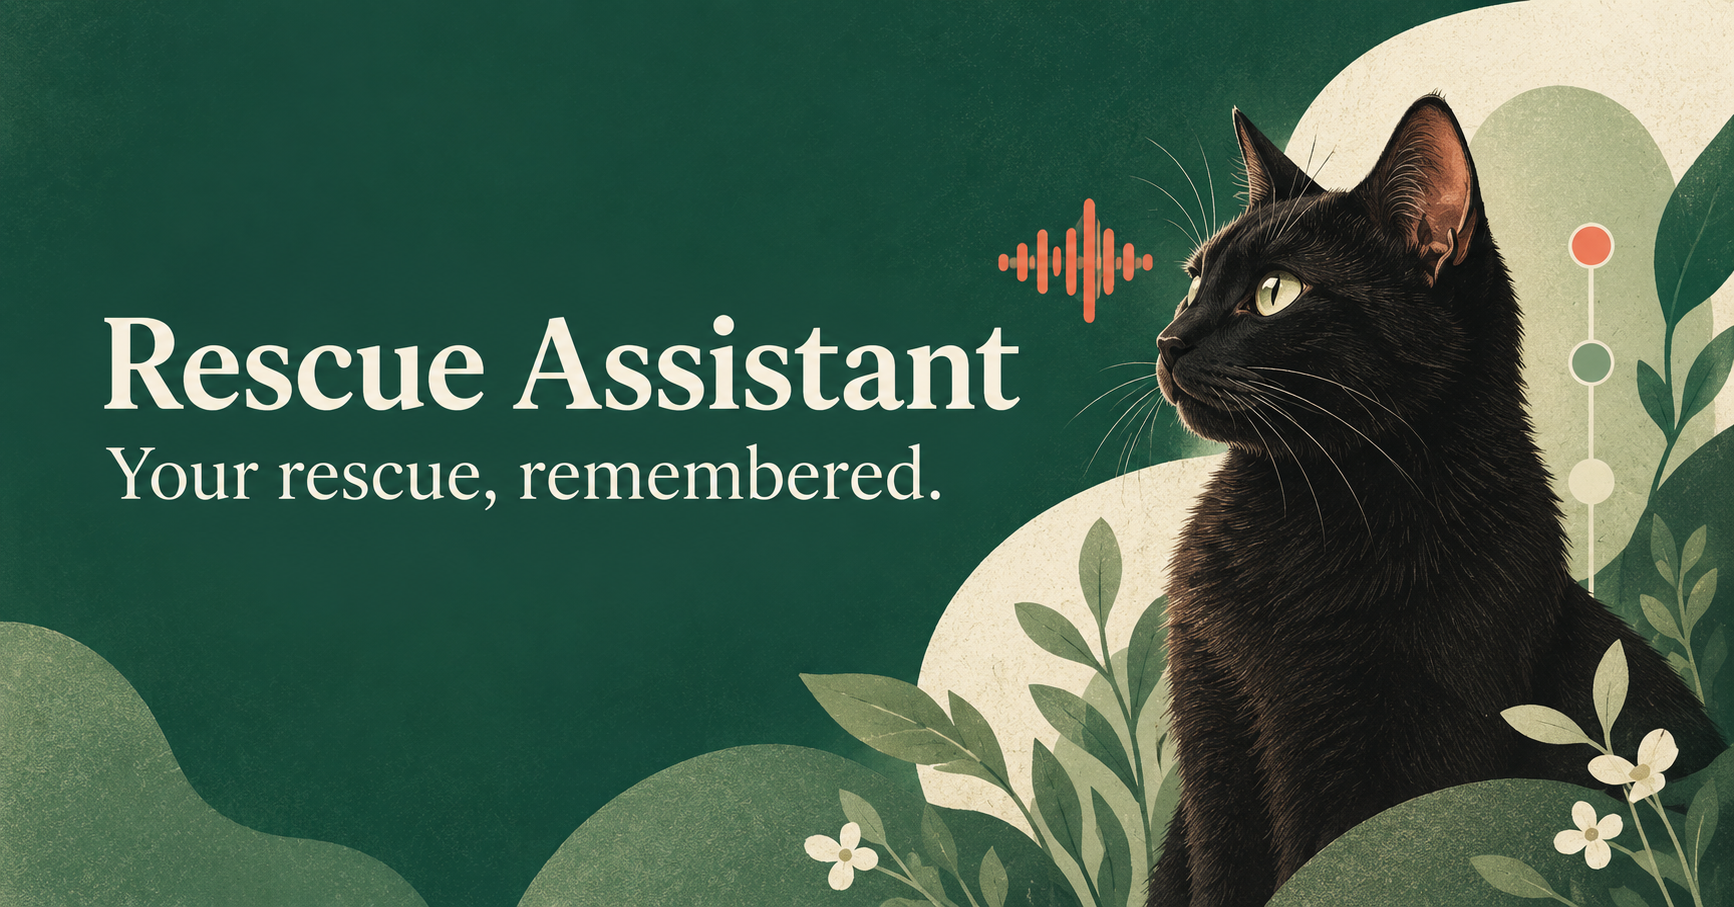
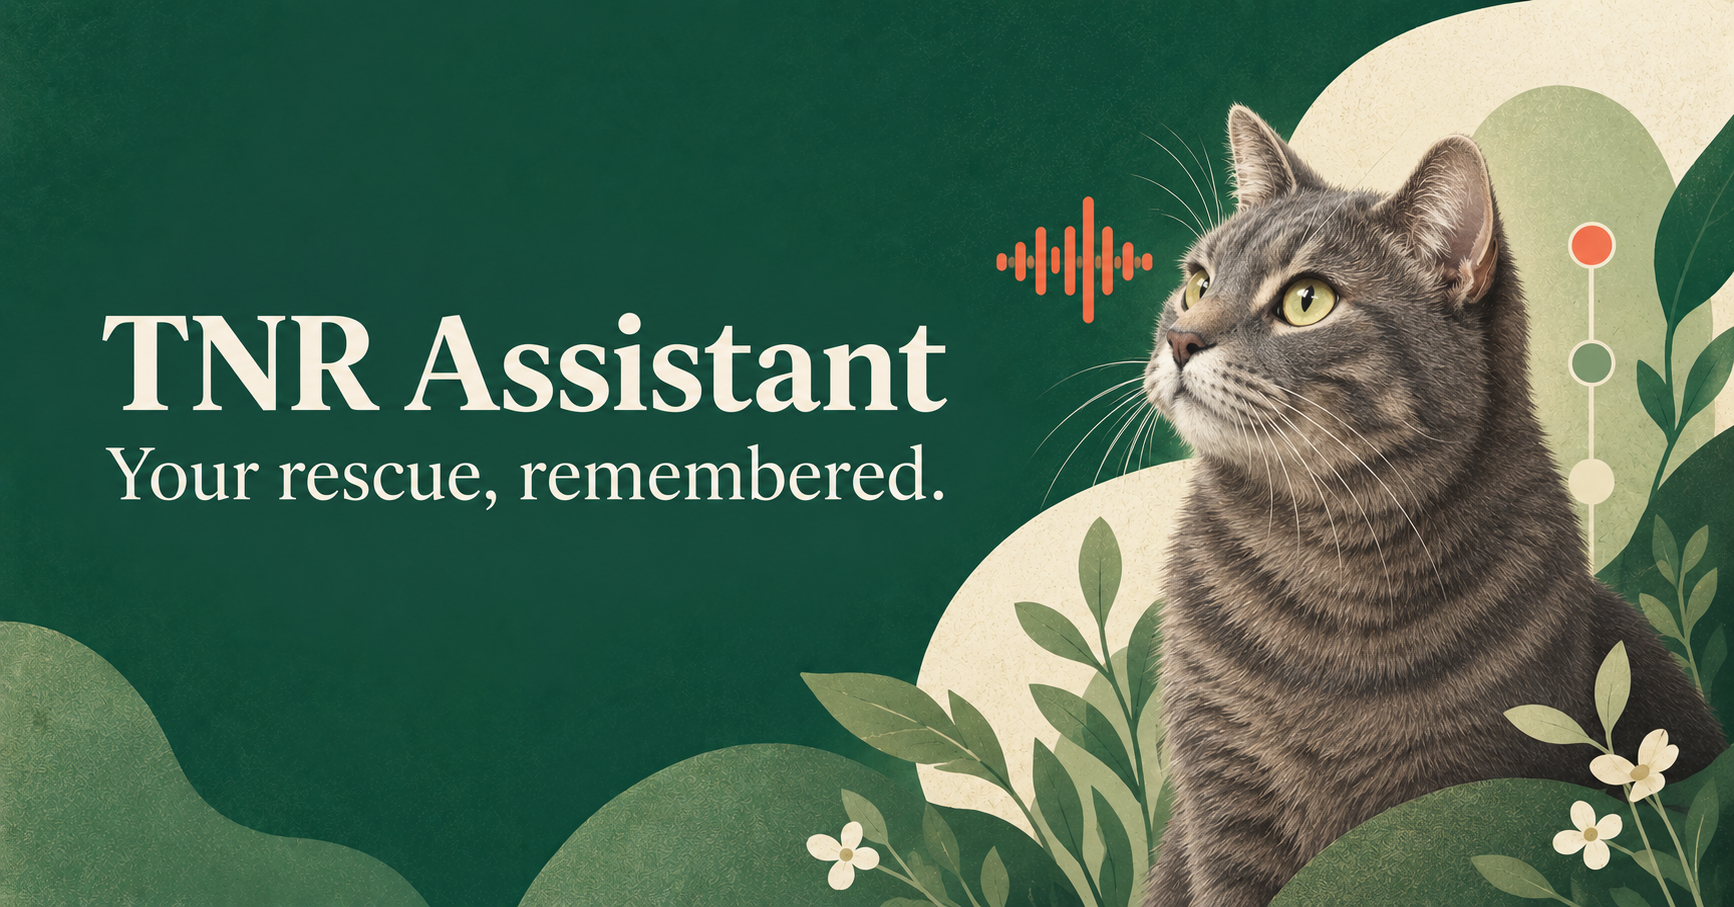
Rename to TNR Assistant and add direct microphone capture

diff --git a/app/page.tsx b/app/page.tsx
@@ -3,14 +3,16 @@ import { ChangeEvent, useEffect, useRef, useState } from "react";
 type Memory={id:string;kind:string;title:string;detail:string;createdAt:string}; type Cat={id:string;displayName:string;description:string;status:string;origin:string;events:number}; type Reply={message:string;clarification?:string};
 const prompts=["The thinner black boy from Jefferson got neutered today, rabies and FVRCP.","Sarah Yunker donated two 12-pound bags of Friskies.","We made $300 selling stickers.","Which cats are waiting for adoption?"];
 export default function Home(){
- const [tab,setTab]=useState("home"),[mode,setMode]=useState<"talk"|"ask"|"photo"|null>(null),[text,setText]=useState(""),[reply,setReply]=useState<Reply|null>(null),[loading,setLoading]=useState(false),[memories,setMemories]=useState<Memory[]>([]),[cats,setCats]=useState<Cat[]>([]); const fileRef=useRef<HTMLInputElement>(null);
+ const [tab,setTab]=useState("home"),[mode,setMode]=useState<"mic"|"text"|"ask"|"photo"|null>(null),[text,setText]=useState(""),[reply,setReply]=useState<Reply|null>(null),[loading,setLoading]=useState(false),[listening,setListening]=useState(false),[micError,setMicError]=useState(""),[memories,setMemories]=useState<Memory[]>([]),[cats,setCats]=useState<Cat[]>([]); const fileRef=useRef<HTMLInputElement>(null),speechRef=useRef<any>(null);
  const refresh=async()=>{try{const r=await fetch("/api/assistant");if(r.ok){const d=await r.json();setMemories(d.memories||[]);setCats(d.cats||[])}}catch{}}; useEffect(()=>{refresh()},[]);
  const submit=async()=>{if(!text.trim())return;setLoading(true);setReply(null);try{const r=await fetch("/api/assistant",{method:"POST",headers:{"content-type":"application/json"},body:JSON.stringify({input:text.trim(),mode})});setReply(await r.json());await refresh()}catch{setReply({message:"I couldn’t save that just now. Your words are still here—please try again."})}finally{setLoading(false)}};
- const open=(next:"talk"|"ask"|"photo")=>{setMode(next);setReply(null);setText(next==="talk"?prompts[0]:"");if(next==="photo")fileRef.current?.click()};
+ const open=(next:"text"|"ask"|"photo")=>{setMode(next);setReply(null);setMicError("");setText("");if(next==="photo")fileRef.current?.click()};
+ const startMic=()=>{setMode("mic");setReply(null);setText("");setMicError("");const w=window as any;const Recognition=w.SpeechRecognition||w.webkitSpeechRecognition;if(!Recognition){setMicError("Live transcription isn’t available in this browser. Use Type an update instead.");return}const recognition=new Recognition();speechRef.current=recognition;recognition.continuous=true;recognition.interimResults=true;recognition.lang="en-US";recognition.onstart=()=>setListening(true);recognition.onresult=(event:any)=>{let words="";for(let i=0;i<event.results.length;i++)words+=event.results[i][0].transcript;setText(words)};recognition.onerror=(event:any)=>{setListening(false);setMicError(event.error==="not-allowed"?"Microphone access was blocked. Allow access or use Type an update.":"I couldn’t hear that clearly. Tap the microphone to try again.")};recognition.onend=()=>setListening(false);recognition.start()};
+ const stopMic=()=>{speechRef.current?.stop();setListening(false)};
  const onPhoto=(e:ChangeEvent<HTMLInputElement>)=>{if(e.target.files?.[0]){setMode("photo");setText(`Photo added: ${e.target.files[0].name}. Female gray kitten from Jefferson, one of the kittens from the big litter.`)}};
  const visible:any[]=tab==="cats"?cats.map(c=>({id:c.id,kind:"cat",title:c.displayName,detail:`${c.description} · ${c.status}`,createdAt:`${c.events} events`})):memories;
- return <main className="shell"><header className="topbar"><div className="brandMark">R</div><div><p className="eyebrow">GOOD MORNING, ARI</p><h1>Rescue Assistant</h1></div><button className="avatar" aria-label="Open profile">A</button></header>
- {tab==="home"?<><section className="hero"><p className="eyebrow light">YOUR RESCUE, REMEMBERED</p><h2>What happened today?</h2><p>Tell me naturally. I’ll organize the details and ask only when I’m unsure.</p><button className="talk" onClick={()=>open("talk")}><span className="mic">●</span><span><strong>Talk to the rescue</strong><small>Tap and speak naturally</small></span><span className="waves">ıııı</span></button></section><section className="quickGrid"><button onClick={()=>open("photo")}><span className="actionIcon photo">▣</span><span><strong>Add photo</strong><small>Document a cat</small></span><b>›</b></button><button onClick={()=>open("ask")}><span className="actionIcon ask">?</span><span><strong>Ask the rescue</strong><small>Find anything</small></span><b>›</b></button></section><section className="summaryCard"><div><p className="eyebrow">RIGHT NOW</p><h3>Your rescue at a glance</h3></div><div className="stats"><div><strong>{cats.filter(c=>!["adopted","returned to colony"].includes(c.status)).length}</strong><span>In care</span></div><div><strong>{cats.filter(c=>["awaiting vet","recovering"].includes(c.status)).length}</strong><span>Need attention</span></div><div><strong>{cats.filter(c=>c.status==="available for adoption").length}</strong><span>Ready for homes</span></div></div></section></>:<section className="pageIntro"><p className="eyebrow">RESCUE MEMORY</p><h2>{tab==="cats"?"Every cat, remembered":tab==="activity"?"The full timeline":"Money & resources"}</h2><p>{tab==="cats"?"Names are optional. Context is the identity.":tab==="activity"?"Original words and structured updates stay together.":"Operational visibility—not formal accounting."}</p></section>}
+ return <main className="shell"><header className="topbar"><div className="brandMark"><img src="/tnr-cat.png" alt="Gray cat mascot"/></div><div><p className="eyebrow">GOOD MORNING, ARI</p><h1>TNR Assistant</h1></div><button className="avatar" aria-label="Open profile">A</button></header>
+ {tab==="home"?<><section className="hero"><img className="heroCat" src="/tnr-cat.png" alt=""/><div className="heroCopy"><p className="eyebrow light">YOUR RESCUE, REMEMBERED</p><h2>What happened today?</h2><p>Tell me naturally. I’ll organize the details and ask only when I’m unsure.</p></div><div className="recordActions"><button className="talk" onClick={startMic}><span className="mic">●</span><span><strong>Record an update</strong><small>Opens your microphone now</small></span><span className="waves">ıııı</span></button><button className="typeUpdate" onClick={()=>open("text")}><span className="typeIcon">Aa</span><span><strong>Type an update</strong><small>Open a text window</small></span><b>›</b></button></div></section><section className="quickGrid"><button onClick={()=>open("photo")}><span className="actionIcon photo">▣</span><span><strong>Add photo</strong><small>Document a cat</small></span><b>›</b></button><button onClick={()=>open("ask")}><span className="actionIcon ask">?</span><span><strong>Ask the rescue</strong><small>Find anything</small></span><b>›</b></button></section><section className="summaryCard"><div><p className="eyebrow">RIGHT NOW</p><h3>Your rescue at a glance</h3></div><div className="stats"><div><strong>{cats.filter(c=>!["adopted","returned to colony"].includes(c.status)).length}</strong><span>In care</span></div><div><strong>{cats.filter(c=>["awaiting vet","recovering"].includes(c.status)).length}</strong><span>Need attention</span></div><div><strong>{cats.filter(c=>c.status==="available for adoption").length}</strong><span>Ready for homes</span></div></div></section></>:<section className="pageIntro"><p className="eyebrow">RESCUE MEMORY</p><h2>{tab==="cats"?"Every cat, remembered":tab==="activity"?"The full timeline":"Money & resources"}</h2><p>{tab==="cats"?"Names are optional. Context is the identity.":tab==="activity"?"Original words and structured updates stay together.":"Operational visibility—not formal accounting."}</p></section>}
  <section className="recent"><div className="sectionTitle"><div><p className="eyebrow">{tab==="home"?"RECENT MEMORY":"RECORDED"}</p><h3>{tab==="home"?"What I’ve recorded":tab==="resources"?"Resource flow":tab==="cats"?"Cats":"All activity"}</h3></div>{tab==="home"&&<button onClick={()=>setTab("activity")}>See all</button>}</div><div className="memoryList">{visible.filter(x=>tab!=="resources"||["income","expense","in-kind"].includes(x.kind)).slice(0,tab==="home"?4:30).map(item=><article key={item.id}><span className={`eventIcon ${item.kind==="income"||item.kind==="in-kind"?"green":item.kind==="expense"?"coral":"blue"}`}>{item.kind==="cat"?"♧":item.kind==="income"?"↗":item.kind==="expense"?"↘":"✦"}</span><div><strong>{item.title}</strong><p>{item.detail}</p></div><time>{item.createdAt}</time></article>)}{!visible.length&&<div className="empty">Your first memory will appear here.</div>}</div></section>
- <input ref={fileRef} type="file" accept="image/*" capture="environment" hidden onChange={onPhoto}/>{mode&&<div className="sheetBackdrop" onClick={()=>setMode(null)}><section className="sheet" onClick={e=>e.stopPropagation()}><div className="handle"/><p className="eyebrow">{mode==="ask"?"ASK THE RESCUE":mode==="photo"?"PHOTO + CONTEXT":"I’M LISTENING"}</p><h2>{mode==="ask"?"What do you want to know?":mode==="photo"?"Tell me about this cat":"Tell me what happened"}</h2><textarea autoFocus value={text} onChange={e=>setText(e.target.value)} placeholder="Speak or type naturally…"/><div className="suggestions">{prompts.slice(1).map(p=><button key={p} onClick={()=>setText(p)}>{p}</button>)}</div>{reply&&<div className={`reply ${reply.clarification?"clarify":""}`}><strong>{reply.clarification?"One quick question":"Recorded"}</strong><p>{reply.message}</p>{reply.clarification&&<button onClick={()=>{setText(reply.clarification!);setReply(null)}}>{reply.clarification}</button>}</div>}<button className="primary" disabled={loading} onClick={submit}>{loading?"Checking the rescue memory…":mode==="ask"?"Ask":"Review & record"}</button><button className="close" onClick={()=>setMode(null)}>Close</button></section></div>}
+ <input ref={fileRef} type="file" accept="image/*" capture="environment" hidden onChange={onPhoto}/>{mode&&<div className="sheetBackdrop" onClick={()=>{stopMic();setMode(null)}}><section className="sheet" onClick={e=>e.stopPropagation()}><div className="handle"/><p className="eyebrow">{mode==="ask"?"ASK THE RESCUE":mode==="photo"?"PHOTO + CONTEXT":mode==="mic"?(listening?"MICROPHONE IS ON":"MICROPHONE PAUSED"):"TYPE AN UPDATE"}</p><h2>{mode==="ask"?"What do you want to know?":mode==="photo"?"Tell me about this cat":mode==="mic"?(listening?"I’m listening…":"Review what I heard"):"Tell me what happened"}</h2>{mode==="mic"?<div className="voiceCapture"><button className={`bigMic ${listening?"isListening":""}`} onClick={listening?stopMic:startMic} aria-label={listening?"Stop microphone":"Start microphone"}>{listening?"■":"●"}</button><p>{text||"Start speaking—your words will appear here."}</p>{micError&&<div className="micError">{micError}</div>}</div>:<textarea autoFocus value={text} onChange={e=>setText(e.target.value)} placeholder="Type naturally…"/>}<div className="suggestions">{prompts.slice(1).map(p=><button key={p} onClick={()=>setText(p)}>{p}</button>)}</div>{reply&&<div className={`reply ${reply.clarification?"clarify":""}`}><strong>{reply.clarification?"One quick question":"Recorded"}</strong><p>{reply.message}</p>{reply.clarification&&<button onClick={()=>{setText(reply.clarification!);setReply(null)}}>{reply.clarification}</button>}</div>}<button className="primary" disabled={loading||!text.trim()} onClick={()=>{stopMic();submit()}}>{loading?"Checking the rescue memory…":mode==="ask"?"Ask":"Review & record"}</button><button className="close" onClick={()=>{stopMic();setMode(null)}}>Close</button></section></div>}
  <nav>{[["home","⌂","Home"],["cats","♧","Cats"],["activity","◎","Activity"],["resources","◌","Resources"]].map(([id,icon,label])=><button key={id} className={tab===id?"active":""} onClick={()=>setTab(id)}><span>{icon}</span>{label}</button>)}</nav></main>}

diff --git a/app/globals.css b/app/globals.css
@@ -1,3 +1,4 @@
 @import "tailwindcss";
 :root{--ink:#18352f;--forest:#19483e;--cream:#f7f5ee;--coral:#ee715e;--line:#dfe5dd}*{box-sizing:border-box}body{margin:0;background:#e9ece8;color:var(--ink);font-family:Arial,Helvetica,sans-serif}button{font:inherit;color:inherit}.shell{width:min(100%,480px);min-height:100vh;margin:0 auto;background:var(--cream);padding:0 20px 98px;box-shadow:0 0 60px #50625a22}.topbar{display:flex;align-items:center;gap:12px;padding:22px 0 18px}.brandMark{width:40px;height:40px;border-radius:50% 50% 45% 55%;background:var(--forest);color:#fff;display:grid;place-items:center;font:700 20px Georgia;transform:rotate(-5deg)}.topbar div:nth-child(2){flex:1}.eyebrow{margin:0 0 4px;color:#71827a;font-size:10px;line-height:1;letter-spacing:1.7px;font-weight:800}h1{margin:0;font:600 22px/1.1 Georgia,serif}.avatar{border:0;width:38px;height:38px;border-radius:50%;background:#d7e4da;font-weight:800}.hero{background:var(--forest);color:white;border-radius:26px;padding:28px 22px 22px;box-shadow:0 12px 30px #183c332a;overflow:hidden;position:relative}.hero:after{content:"";position:absolute;width:150px;height:150px;border:1px solid #ffffff18;border-radius:50%;top:-70px;right:-45px}.light{color:#b9d4c8}.hero h2{font:600 30px/1.08 Georgia,serif;margin:10px 0 8px}.hero>p:not(.eyebrow){color:#c8ddd4;margin:0 0 20px;font-size:14px;line-height:1.5;max-width:340px}.talk{width:100%;border:0;border-radius:18px;background:white;display:flex;align-items:center;gap:13px;padding:15px;text-align:left;box-shadow:0 5px 15px #071d1638}.talk.listening{background:#fff4f1}.mic{width:44px;height:44px;border-radius:50%;display:grid;place-items:center;background:var(--coral);color:white;font-size:13px}.talk span:nth-child(2){flex:1}.talk strong,.talk small{display:block}.talk strong{text-transform:uppercase;letter-spacing:.7px;font-size:13px}.talk small{margin-top:4px;color:#71827a;font-size:11px}.waves{color:var(--coral);letter-spacing:2px;font-weight:bold}.transcript{margin-top:14px;padding:12px;border-radius:12px;background:#ffffff12;color:#dcebe4;font-size:13px;line-height:1.4}.quickGrid{display:grid;grid-template-columns:1fr 1fr;gap:12px;margin:16px 0}.quickGrid button{border:1px solid var(--line);background:#fff;border-radius:18px;padding:16px 13px;display:grid;grid-template-columns:auto 1fr auto;align-items:center;gap:9px;text-align:left;box-shadow:0 4px 12px #273e3520}.quickGrid strong,.quickGrid small{display:block}.quickGrid strong{font-size:13px}.quickGrid small{color:#7f8d86;font-size:10px;margin-top:4px}.quickGrid b{color:#90a098;font-size:20px}.actionIcon{width:34px;height:34px;border-radius:10px;display:grid;place-items:center;font-weight:900}.photo{background:#fff0e7;color:#d96a52}.ask{background:#e8f0f9;color:#4c7498}.summaryCard{border:1px solid #dce4db;background:#eef4ed;border-radius:22px;padding:19px}.summaryCard h3,.sectionTitle h3{font:600 20px Georgia,serif;margin:0}.stats{display:grid;grid-template-columns:repeat(3,1fr);margin-top:17px}.stats div{border-right:1px solid #cfdacf;padding:0 10px}.stats div:first-child{padding-left:0}.stats div:last-child{border:0}.stats strong,.stats span{display:block}.stats strong{font:600 25px Georgia}.stats span{font-size:10px;color:#6f8077;margin-top:3px}.recent{margin-top:25px}.sectionTitle{display:flex;justify-content:space-between;align-items:end;margin-bottom:10px}.sectionTitle button{border:0;background:none;color:#287060;font-size:12px;font-weight:700}.memoryList{background:#fff;border:1px solid var(--line);border-radius:20px;overflow:hidden}.memoryList article{display:grid;grid-template-columns:auto 1fr auto;gap:11px;align-items:center;padding:14px;border-bottom:1px solid #edf0ec}.memoryList article:last-child{border:0}.eventIcon{width:34px;height:34px;border-radius:50%;display:grid;place-items:center;font-weight:900}.blue{background:#e5eff8;color:#50799a}.green{background:#e5f3e7;color:#3f7d54}.coral{background:#feebe7;color:#d26252}.memoryList strong{font-size:13px}.memoryList p{margin:4px 0 0;color:#79867f;font-size:11px}.memoryList time{font-size:9px;color:#98a39d}.demoConfirm{width:100%;margin-top:14px;border:1px dashed #a8b7ae;background:transparent;border-radius:14px;padding:12px;color:#4b6b61;font-weight:700}nav{position:fixed;bottom:0;width:min(calc(100% - 40px),440px);height:78px;background:#fbfaf6ee;border-top:1px solid var(--line);backdrop-filter:blur(12px);display:grid;grid-template-columns:repeat(4,1fr);z-index:10}nav button{border:0;background:none;color:#829089;font-size:9px;font-weight:700}nav button span{display:block;font-size:21px;margin-bottom:5px}nav .active{color:#236152}@media(max-width:380px){.shell{padding-inline:14px}.quickGrid{grid-template-columns:1fr}.hero h2{font-size:27px}nav{width:calc(100% - 28px)}}
  .pageIntro{padding:26px 8px 18px}.pageIntro h2,.sheet h2{font:600 30px/1.1 Georgia,serif;margin:8px 0}.pageIntro>p:last-child{color:#71827a;font-size:14px}.empty{padding:30px;text-align:center;color:#829089;font-size:13px}.sheetBackdrop{position:fixed;inset:0;background:#10231d99;z-index:20;display:flex;align-items:end;justify-content:center}.sheet{width:min(100%,480px);max-height:90vh;overflow:auto;background:#fbfaf6;border-radius:28px 28px 0 0;padding:14px 22px 28px;box-shadow:0 -20px 60px #0b1f1933}.handle{width:45px;height:5px;border-radius:9px;background:#ced6d1;margin:0 auto 25px}.sheet textarea{width:100%;min-height:120px;border:1px solid #ccd8d0;border-radius:17px;padding:15px;resize:vertical;background:white;color:var(--ink);font:15px/1.5 Arial;outline:none}.sheet textarea:focus{border-color:#337564;box-shadow:0 0 0 3px #33756418}.suggestions{display:flex;gap:7px;overflow-x:auto;padding:10px 0}.suggestions button{flex:0 0 auto;max-width:220px;overflow:hidden;text-overflow:ellipsis;white-space:nowrap;border:1px solid #dce4de;border-radius:999px;background:white;padding:8px 11px;font-size:10px;color:#65786f}.primary{width:100%;border:0;background:var(--forest);color:white;border-radius:15px;padding:15px;font-weight:800;margin-top:10px}.primary:disabled{opacity:.55}.close{width:100%;border:0;background:transparent;padding:13px;color:#71827a}.reply{background:#e8f3eb;border-radius:15px;padding:14px;margin:8px 0;font-size:13px}.reply p{margin:5px 0;line-height:1.45}.reply.clarify{background:#fff1df}.reply button{border:0;border-radius:9px;background:white;padding:8px;margin-top:4px;font-size:11px;font-weight:700}
+.brandMark{overflow:hidden;transform:none;border:2px solid #fff;box-shadow:0 2px 9px #173d3422}.brandMark img{width:100%;height:100%;object-fit:cover}.hero{padding-right:22px}.heroCopy{position:relative;z-index:2;max-width:310px}.heroCopy>p:not(.eyebrow){color:#c8ddd4;margin:0 0 20px;font-size:14px;line-height:1.5;max-width:310px}.heroCat{position:absolute;right:-20px;top:-24px;width:150px;height:150px;object-fit:cover;border-radius:50%;opacity:.22;mix-blend-mode:screen}.recordActions{position:relative;z-index:2;display:grid;gap:9px}.typeUpdate{width:100%;border:1px solid #ffffff2b;border-radius:16px;background:#ffffff12;color:white;display:grid;grid-template-columns:auto 1fr auto;align-items:center;gap:12px;padding:12px 15px;text-align:left}.typeUpdate span:nth-child(2){display:block}.typeUpdate strong,.typeUpdate small{display:block}.typeUpdate strong{text-transform:uppercase;letter-spacing:.7px;font-size:12px}.typeUpdate small{margin-top:3px;color:#b9d4c8;font-size:10px}.typeIcon{width:40px;height:40px;border-radius:50%;background:#ffffff18;display:grid;place-items:center;font:700 14px Georgia}.typeUpdate b{font-size:22px;color:#bdd2c8}.voiceCapture{text-align:center;background:#eef4ed;border-radius:20px;padding:20px;margin:10px 0}.bigMic{width:82px;height:82px;border:0;border-radius:50%;background:var(--coral);color:white;font-size:22px;box-shadow:0 0 0 9px #ee715e22}.bigMic.isListening{animation:pulse 1.3s infinite}.voiceCapture>p{min-height:48px;font:16px/1.45 Georgia;margin:20px 0 0}.micError{margin-top:12px;padding:10px;background:#fff0df;border-radius:10px;color:#7a5136;font-size:12px}@keyframes pulse{50%{box-shadow:0 0 0 18px #ee715e10;transform:scale(1.03)}}

diff --git a/app/layout.tsx b/app/layout.tsx
@@ -14,22 +14,23 @@ const geistMono = Geist_Mono({
 
 export const metadata: Metadata = {
   metadataBase: new URL("https://ari-rescue-assistant.matthew-bahren335256.chatgpt.site"),
-  title: "Rescue Assistant",
-  description: "A careful AI memory for Ari's cat rescue.",
+  title: "TNR Assistant",
+  description: "A careful AI memory for Ari's TNR and cat rescue work.",
   openGraph: {
-    title: "Rescue Assistant",
+    title: "TNR Assistant",
     description: "Your rescue, remembered.",
     images: [{ url: "/og.png", width: 1792, height: 928 }],
   },
   twitter: {
     card: "summary_large_image",
-    title: "Rescue Assistant",
+    title: "TNR Assistant",
     description: "Your rescue, remembered.",
     images: ["/og.png"],
   },
   icons: {
-    icon: "/favicon.svg",
-    shortcut: "/favicon.svg",
+    icon: "/tnr-cat.png",
+    shortcut: "/tnr-cat.png",
+    apple: "/tnr-cat.png",
   },
 };
 
